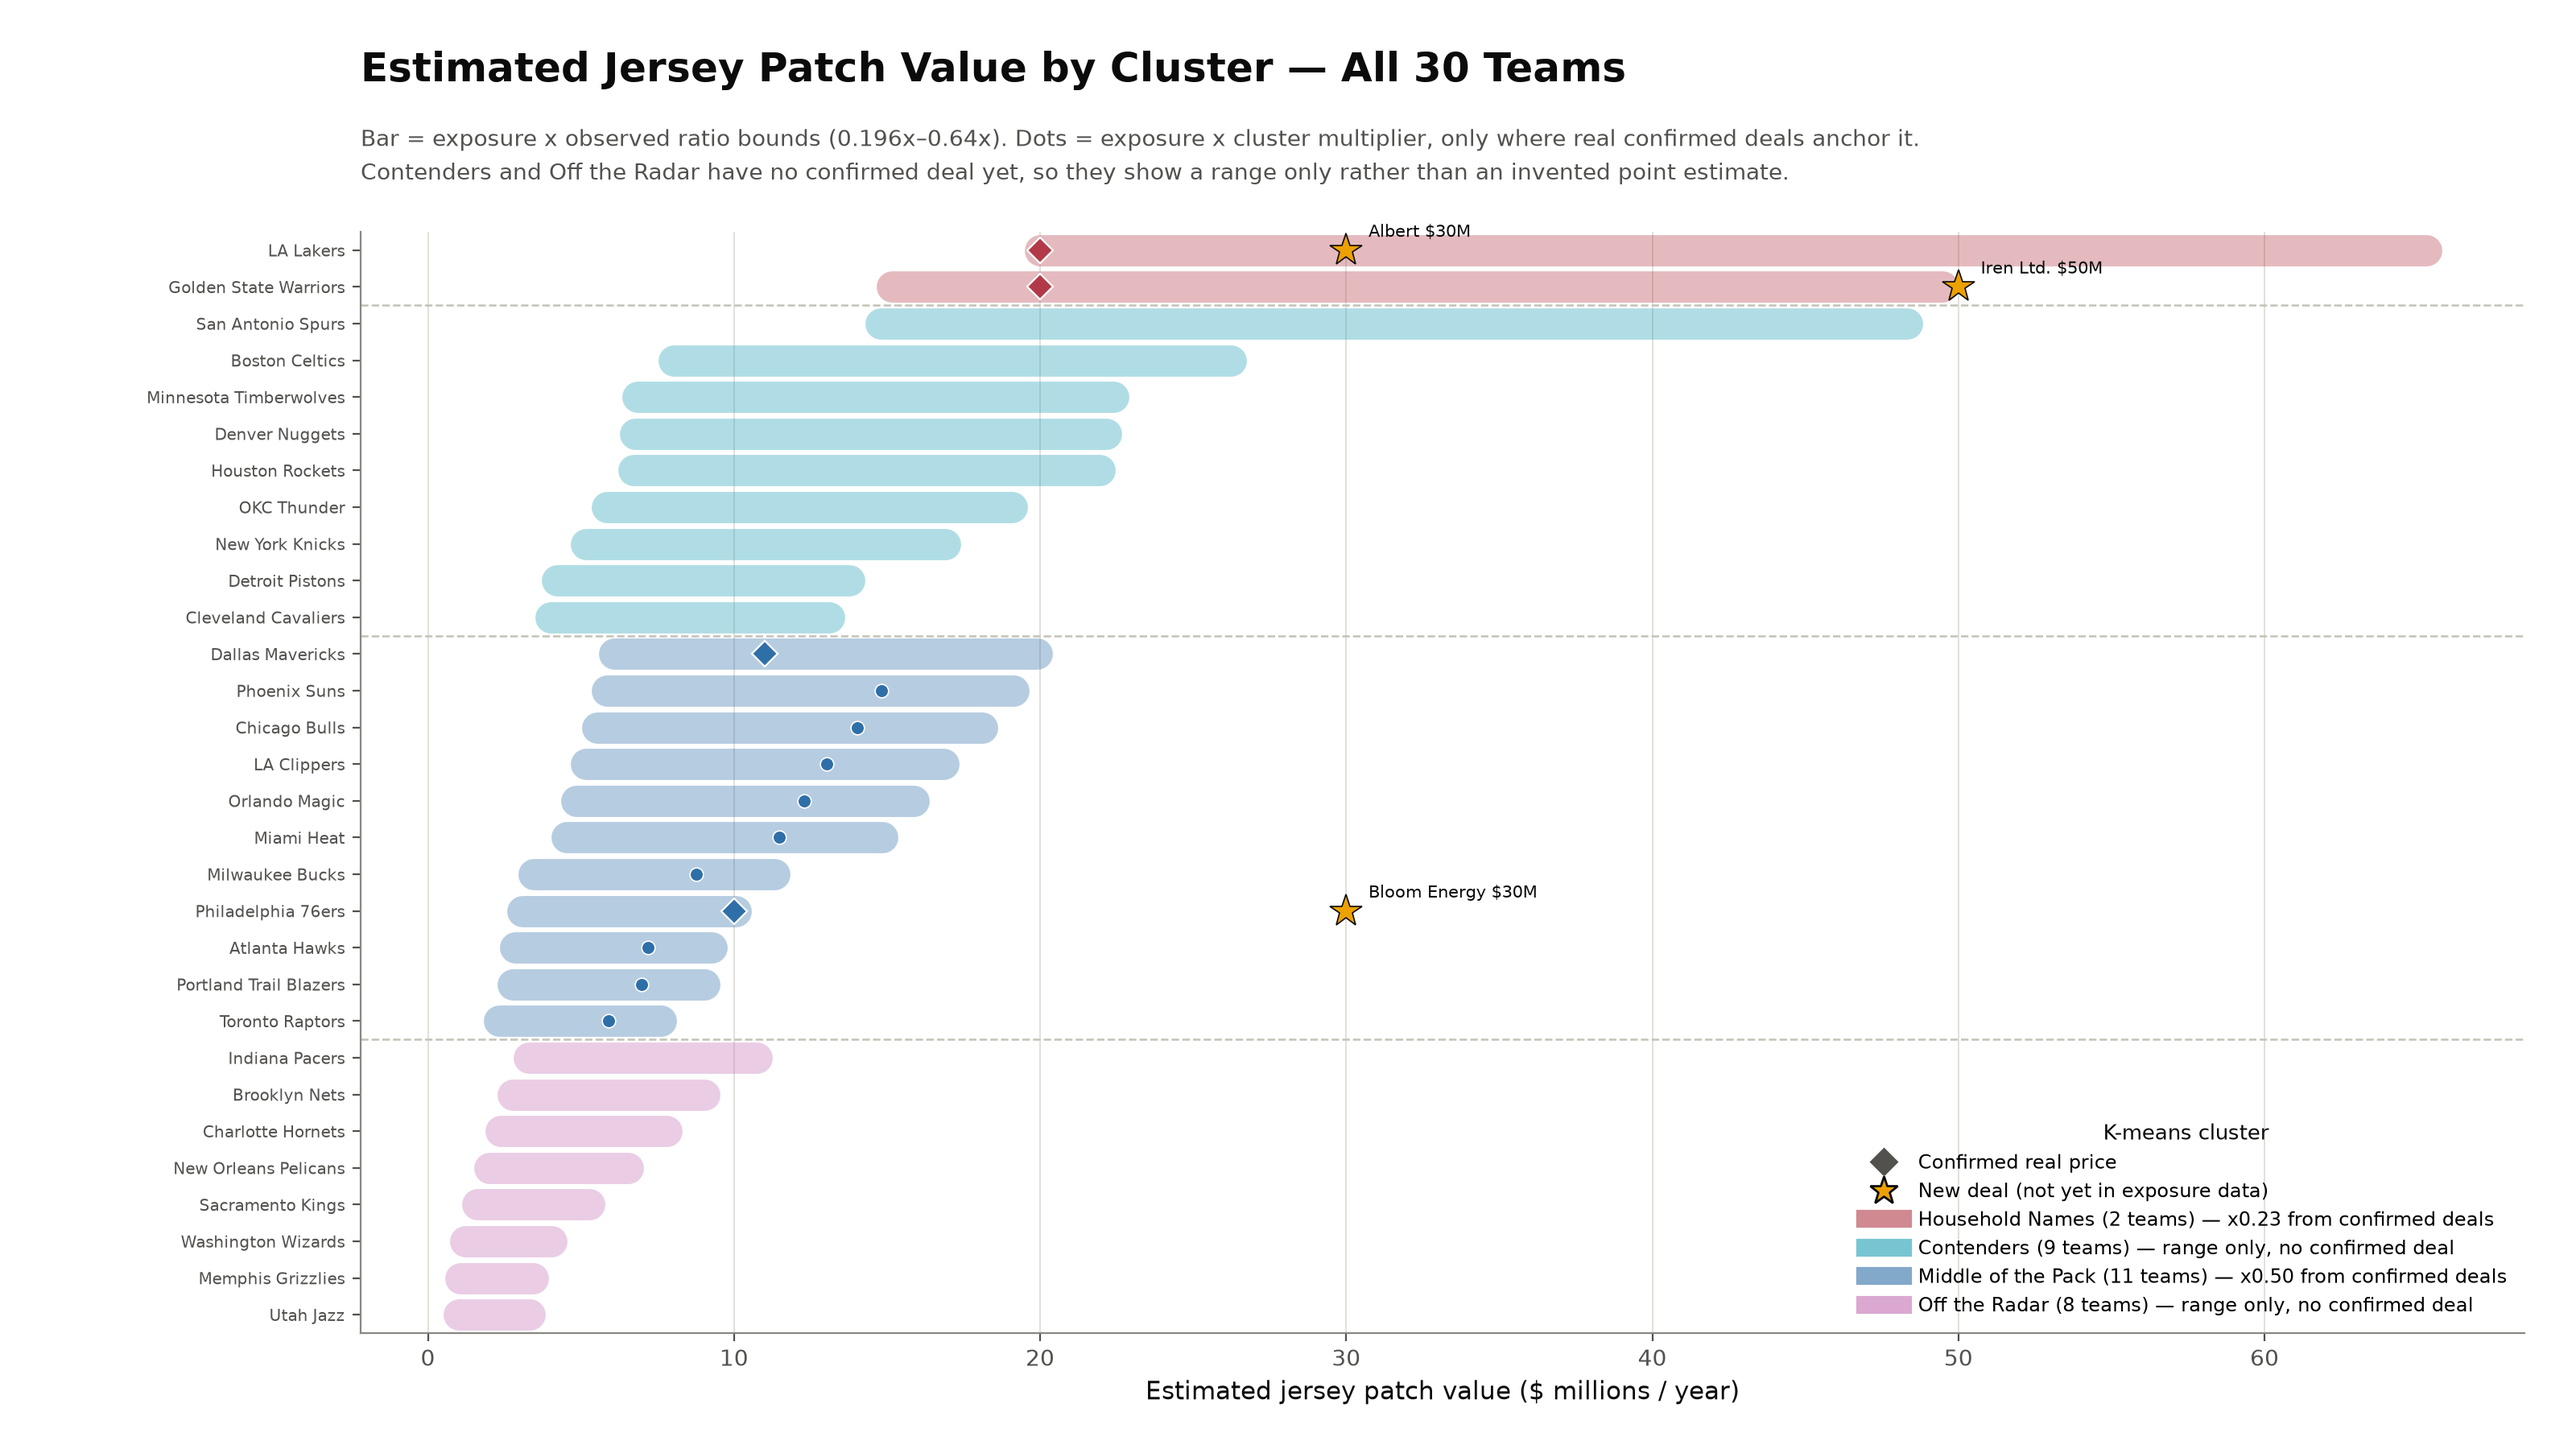
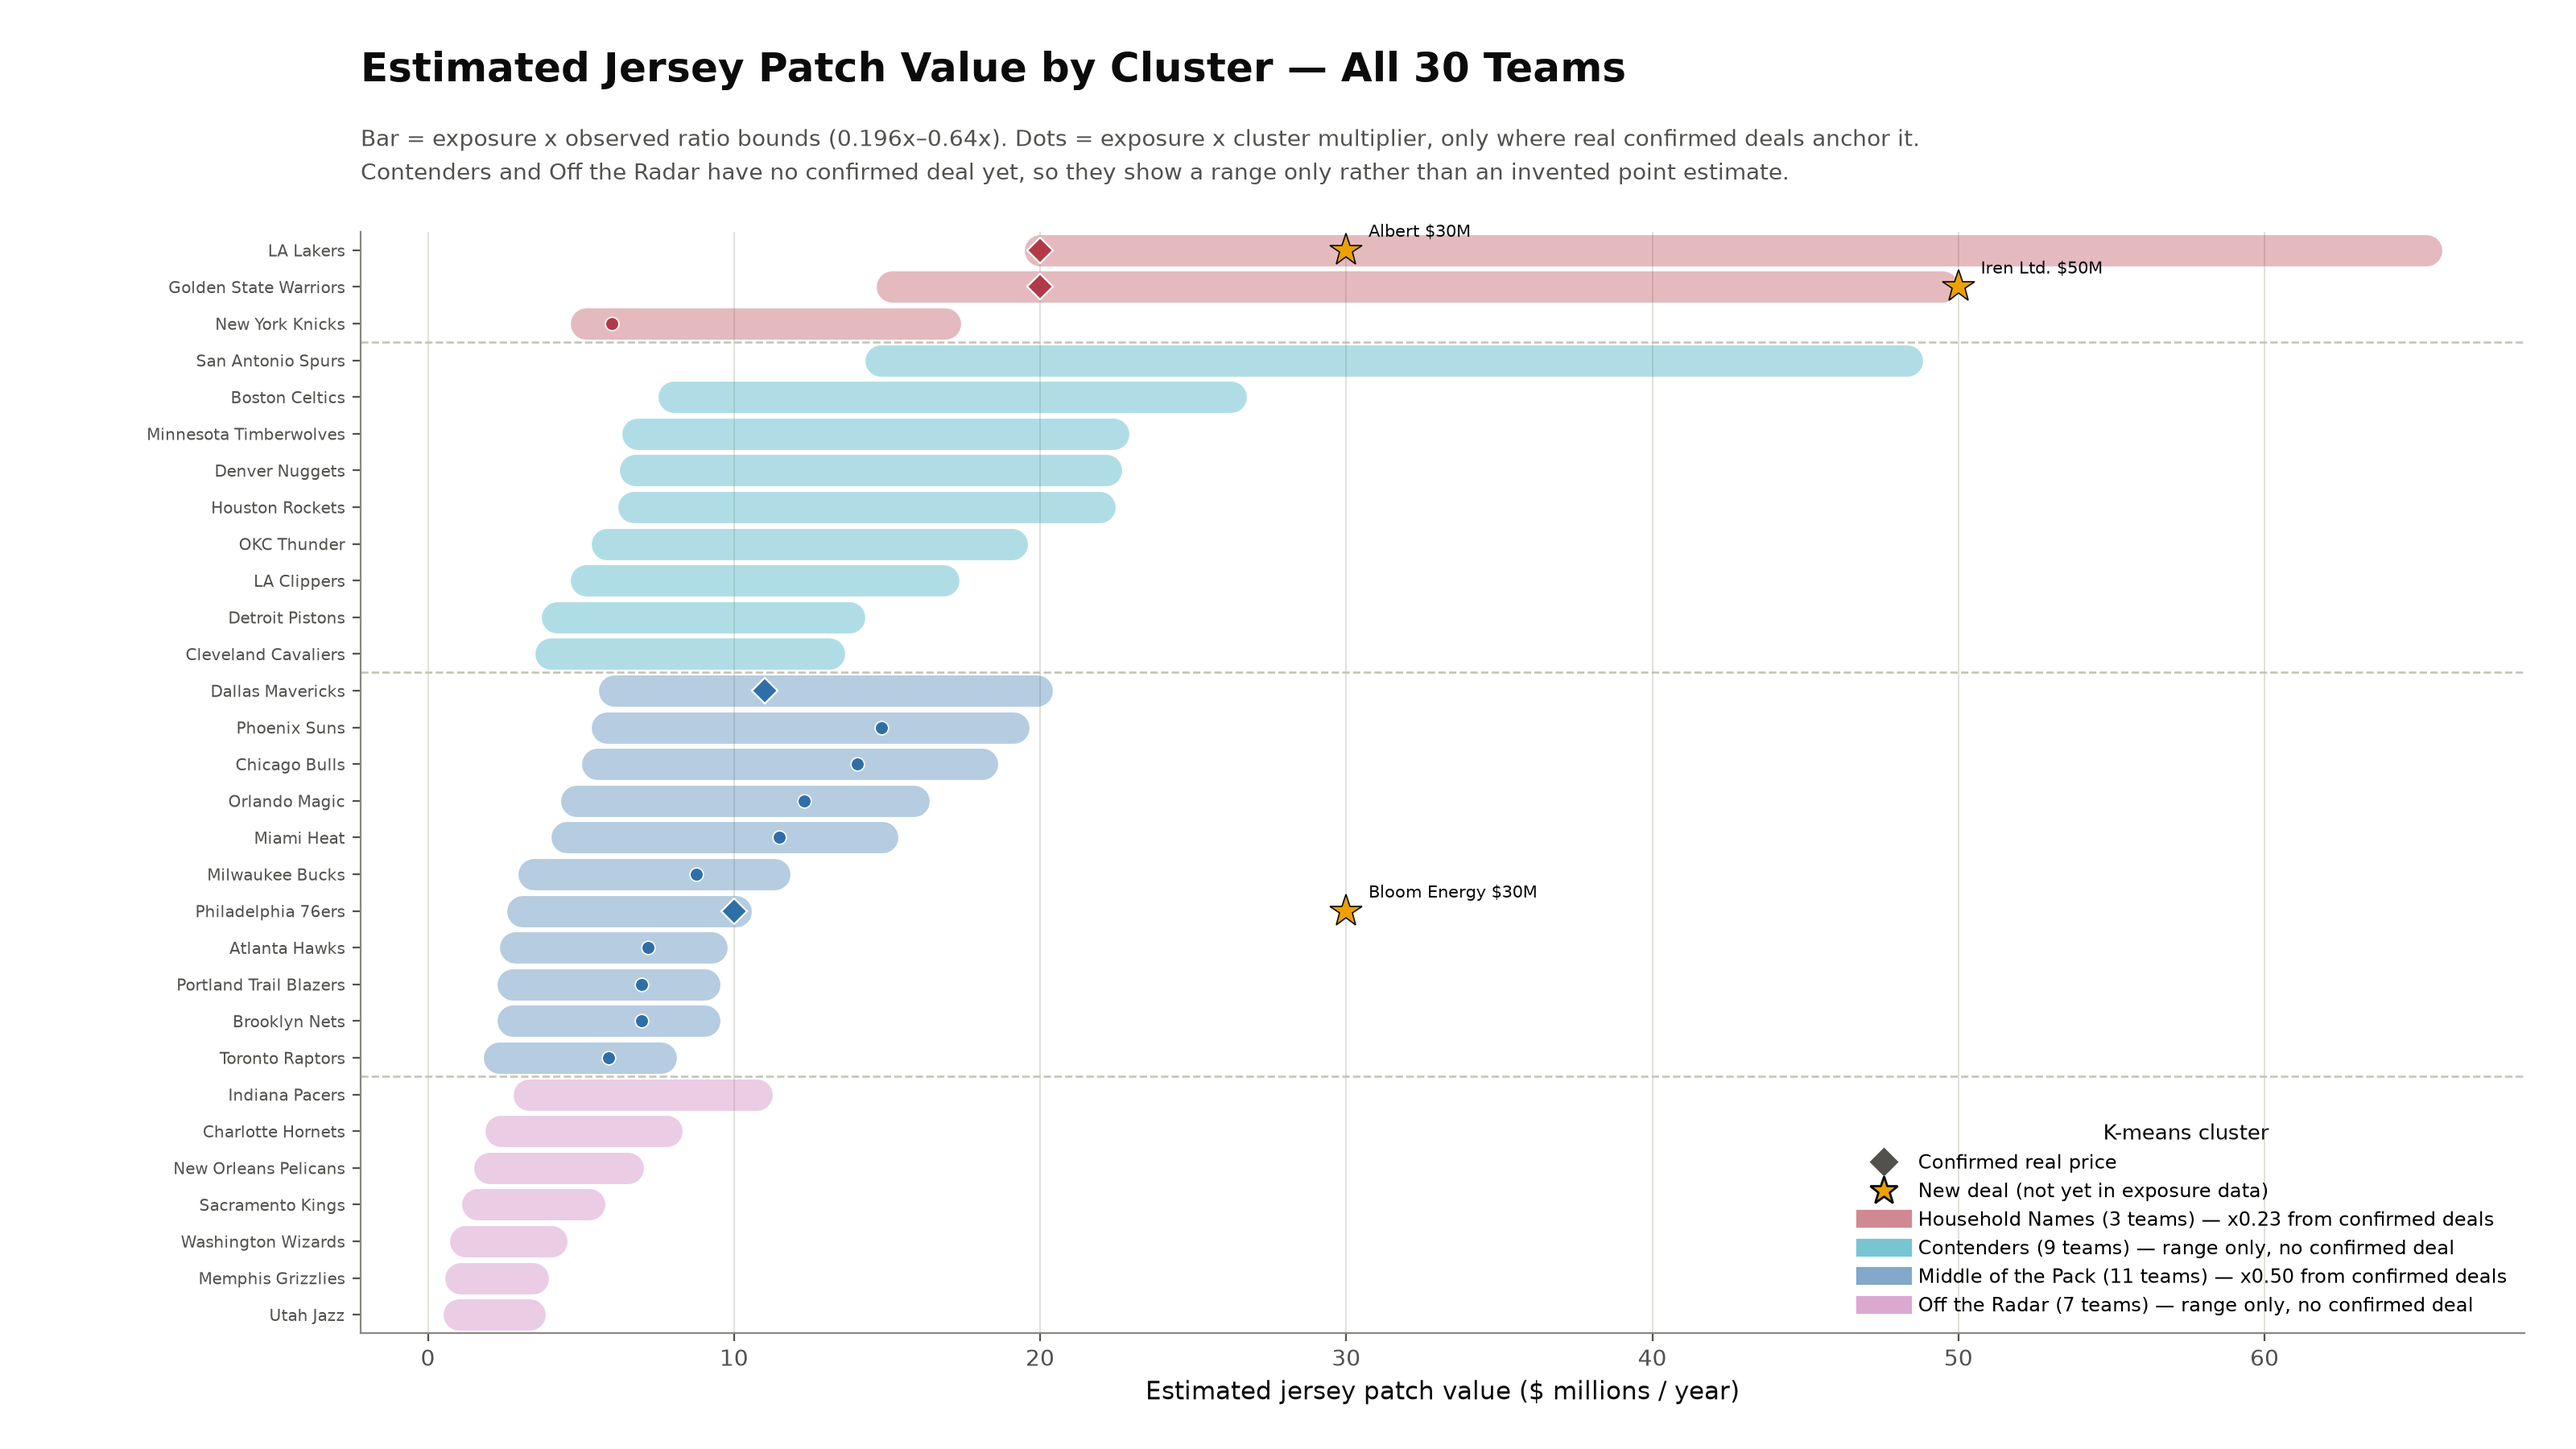
Sync cluster_valuation_chart.py membership to the metro-population model
The range-valuation chart still had the old followers-based cluster
membership. Updated to match nba_kmeans_metro_pop.py's k=4 result: LA
Clippers moved Middle of the Pack -> Contenders, Brooklyn Nets moved Off
the Radar -> Middle of the Pack, New York Knicks moved Contenders ->
Household Names.

Multipliers are unaffected (still derived only from the confirmed-price
teams, none of which moved), but New York Knicks now gets a dot estimate
(exposure x 0.227) since Household Names now has a multiplier to anchor
it, which it didn't get under the old Contenders grouping (no confirmed
deal there).

Claude-Session: https://claude.ai/code/session_011dmqRCX3meF8tbZkeR883H

diff --git a/jersey_patch_model/cluster_valuation_chart.py b/jersey_patch_model/cluster_valuation_chart.py
@@ -50,17 +50,21 @@ data = {
 }
 
 CLUSTERS = [
+    # Membership updated to match the metro-population K-means model
+    # (nba_kmeans_metro_pop.py, k=4): LA Clippers moved Middle of the Pack ->
+    # Contenders, Brooklyn Nets moved Off the Radar -> Middle of the Pack,
+    # New York Knicks moved Contenders -> Household Names.
     ("Household Names", "#B23A48",
-     ["LA Lakers", "Golden State Warriors"]),
+     ["LA Lakers", "Golden State Warriors", "New York Knicks"]),
     ("Contenders", "#1F9FB5",
      ["Houston Rockets", "San Antonio Spurs", "Boston Celtics", "Cleveland Cavaliers",
-      "OKC Thunder", "New York Knicks", "Minnesota Timberwolves", "Denver Nuggets", "Detroit Pistons"]),
+      "OKC Thunder", "Minnesota Timberwolves", "Denver Nuggets", "Detroit Pistons", "LA Clippers"]),
     ("Middle of the Pack", "#2F6FA8",
-     ["Dallas Mavericks", "Chicago Bulls", "LA Clippers", "Miami Heat",
+     ["Dallas Mavericks", "Chicago Bulls", "Miami Heat",
       "Milwaukee Bucks", "Philadelphia 76ers", "Phoenix Suns", "Orlando Magic", "Atlanta Hawks",
-      "Portland Trail Blazers", "Toronto Raptors"]),
+      "Portland Trail Blazers", "Toronto Raptors", "Brooklyn Nets"]),
     ("Off the Radar", "#C46FB5",
-     ["Indiana Pacers", "Sacramento Kings", "Memphis Grizzlies", "Brooklyn Nets",
+     ["Indiana Pacers", "Sacramento Kings", "Memphis Grizzlies",
       "Charlotte Hornets", "New Orleans Pelicans", "Washington Wizards", "Utah Jazz"]),
 ]
 
